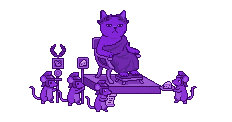
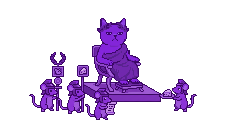
The scriptorium scene fronts the empty archive, on the heroes' shared canvas
All three hero artworks now share 232x130; the archive gets Caesar copy too:
the scribes have nothing to shelve.

Changed region(s): [[0.1207, 0.0738, 0.8448, 0.9344]]

diff --git a/packages/web/src/routes/tasks-overview.tsx b/packages/web/src/routes/tasks-overview.tsx
@@ -314,18 +314,21 @@ function TasksEmptyState({ view, query }: { view: ListView; query: string }) {
         <CenteredState
           heading="h2"
           icon={<ArchiveIcon />}
+          // The scriptorium scene (user artwork), on the heroes' shared 232x130 canvas.
+          art={<img src="/cezar-hero-archive.png" alt="" aria-hidden="true" data-slot="empty-hero" width={232} height={130} className="max-w-full [image-rendering:pixelated]" />}
           tone="neutral"
-          title="Nothing archived yet"
-          subtitle="Finished tasks you archive land here."
+          backdrop
+          title="The archives stand empty"
+          subtitle="Caesar's scribes have nothing to shelve. Archive a finished task and it will rest here."
         />
       ) : (
         <CenteredState
           heading="h2"
           icon={<ListChecksIcon />}
           // The brand cat borne on a litter by his mouse legion (user artwork). Both heroes
-          // share one 232x122 canvas (user decision: no size jump between screens), drawn
+          // share one 232x130 canvas (user decision: no size jump between screens), drawn
           // at 1x CSS (an exact 2x on retina) with pixelated rendering.
-          art={<img src="/cezar-hero.png" alt="" aria-hidden="true" data-slot="empty-hero" width={232} height={122} className="max-w-full [image-rendering:pixelated]" />}
+          art={<img src="/cezar-hero.png" alt="" aria-hidden="true" data-slot="empty-hero" width={232} height={130} className="max-w-full [image-rendering:pixelated]" />}
           tone="primary"
           backdrop
           // Caesar-voiced empty copy (user request): no tasks, so get to work.

diff --git a/packages/web/src/routes/tasks-overview.test.tsx b/packages/web/src/routes/tasks-overview.test.tsx
@@ -756,15 +756,16 @@ describe('TasksOverview — empty and loading states', () => {
     expect(empty.querySelector('[data-slot="grid-backdrop"]')).not.toBeNull()
   })
 
-  it('says the archive is empty, plainly — neutral, no backdrop', () => {
+  it("says the archive is empty in Caesar's voice, with the scriptorium hero", () => {
     renderOverview({ runs: [run({ status: 'done' })], view: 'archived' })
     const empty = document.querySelector<HTMLElement>('[data-slot="tasks-empty"]')
     if (!empty) throw new Error('no empty state rendered')
 
     expect(empty.getAttribute('data-empty-kind')).toBe('archive')
     expect(empty.querySelector('[data-slot="centered-state"]')?.getAttribute('data-tone')).toBe('neutral')
-    expect(within(empty).getByRole('heading', { name: 'Nothing archived yet' })).not.toBeNull()
-    expect(empty.querySelector('[data-slot="grid-backdrop"]')).toBeNull()
+    expect(within(empty).getByRole('heading', { name: 'The archives stand empty' })).not.toBeNull()
+    expect(empty.querySelector('[data-slot="grid-backdrop"]')).not.toBeNull()
+    expect(empty.querySelector('[data-slot="empty-hero"]')?.getAttribute('src')).toBe('/cezar-hero-archive.png')
   })
 
   it('says what the search missed, quoting it, with no backdrop', () => {

diff --git a/packages/web/src/routes/repo-git/repo-git.tsx b/packages/web/src/routes/repo-git/repo-git.tsx
@@ -47,9 +47,9 @@ export function RepoGitRoute({ tab }: { tab: RepoTab }) {
       <div data-route="repo-git" className="flex min-h-full flex-col">
         <CenteredState
           icon={<GitBranchIcon />}
-          // The court scene (user artwork), same pipeline and the same shared 232x122
+          // The court scene (user artwork), same pipeline and the same shared 232x130
           // canvas as the Tasks hero (user decision: no size jump between screens).
-          art={<img src="/cezar-hero-git.png" alt="" aria-hidden="true" data-slot="empty-hero" width={232} height={122} className="max-w-full [image-rendering:pixelated]" />}
+          art={<img src="/cezar-hero-git.png" alt="" aria-hidden="true" data-slot="empty-hero" width={232} height={130} className="max-w-full [image-rendering:pixelated]" />}
           tone="neutral"
           backdrop
           // Caesar-voiced, like the Tasks empty state (user request) — the scribes are the

diff --git a/packages/cezar/src/server/static-ui.ts b/packages/cezar/src/server/static-ui.ts
@@ -26,7 +26,7 @@ export type GetTarget = IndexTarget | 'passthrough';
  *  hashed bundles and the favicons (the cat is the app icon; the legacy mark
  *  stays servable for cached tabs). */
 function isStaticAsset(path: string): boolean {
-  return path.startsWith('/assets/') || path === '/cezar-logo.svg' || path === '/cezar-hero.png' || path === '/cezar-hero-git.png' || path === '/cezar-logo-dark.svg' || path === '/open-mercato.svg';
+  return path.startsWith('/assets/') || path === '/cezar-logo.svg' || path === '/cezar-hero.png' || path === '/cezar-hero-git.png' || path === '/cezar-hero-archive.png' || path === '/cezar-logo-dark.svg' || path === '/open-mercato.svg';
 }
 
 /** Decide what any GET gets, so every route in the spec's map (`/tasks/:id/changes`,

diff --git a/packages/cezar/src/server/server.ts b/packages/cezar/src/server/server.ts
@@ -1426,6 +1426,7 @@ export function createApp(deps: ServerDeps) {
   app.get('/cezar-logo-dark.svg', staticFile('cezar-logo-dark.svg', 'image/svg+xml'));
   app.get('/cezar-hero.png', staticFile('cezar-hero.png', 'image/png'));
   app.get('/cezar-hero-git.png', staticFile('cezar-hero-git.png', 'image/png'));
+  app.get('/cezar-hero-archive.png', staticFile('cezar-hero-archive.png', 'image/png'));
   app.get('/open-mercato.svg', staticFile('open-mercato.svg', 'image/svg+xml'));
 
   // ---- meta ----------------------------------------------------------------
